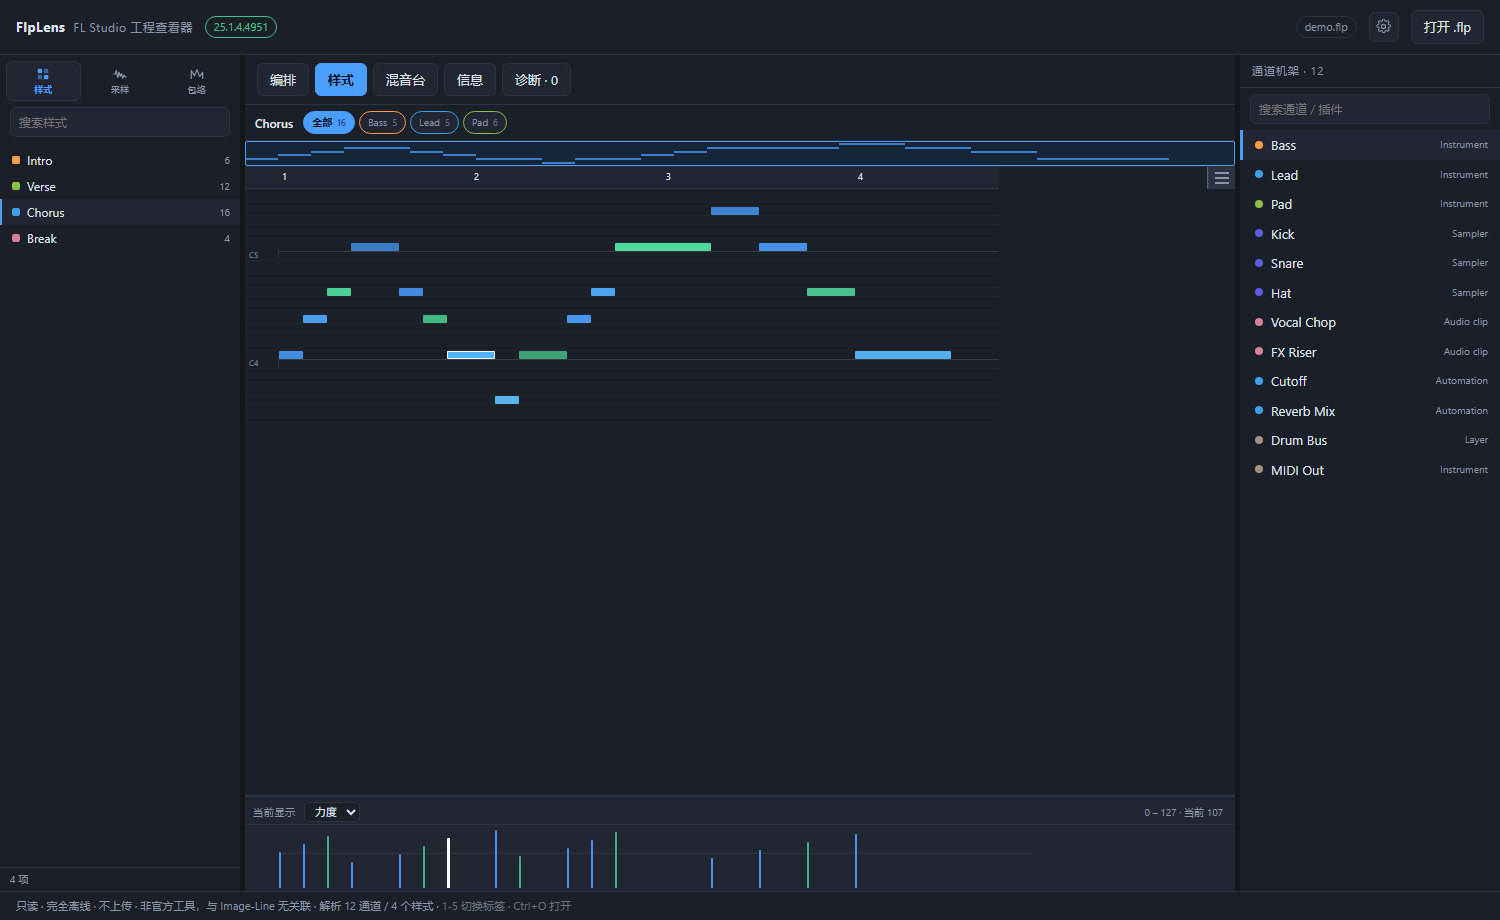
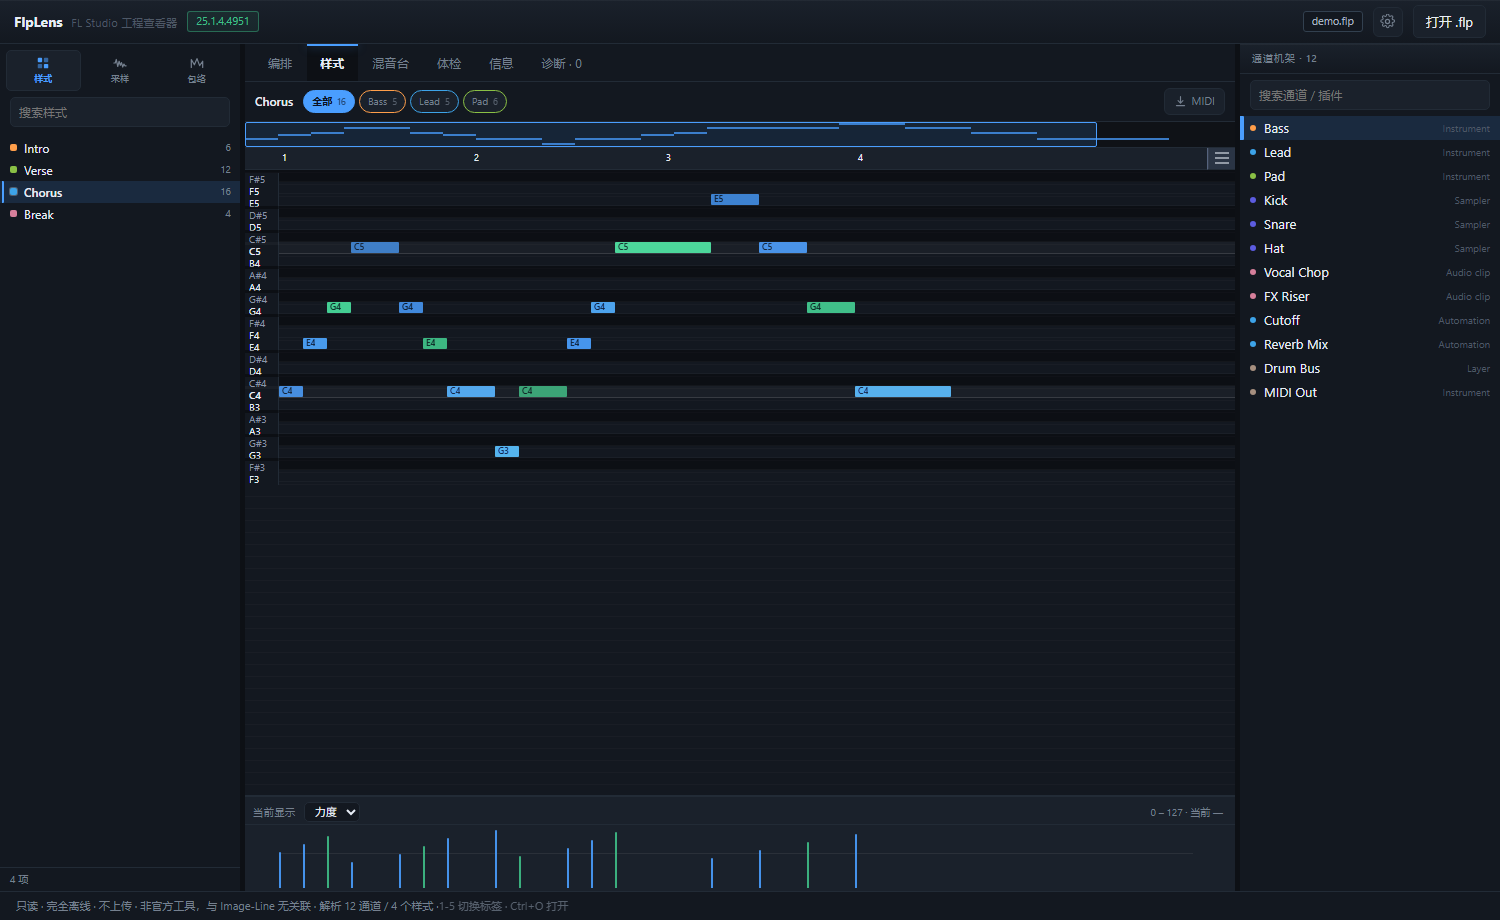
文档: 更新截图，补充体检页预览图
原截图拍于 11-14，此后界面做了设计令牌重构、页签改版、列表密度调整、动效系统，图片已与实际不符。重新用合成工程 demo.flp 生成五张，新增体检页一张。

diff --git a/README.md b/README.md
@@ -14,6 +14,8 @@
 
 ![混音台](docs/screenshot-mixer.png)
 
+![体检](docs/screenshot-insight.png)
+
 ---
 
 ## 支持范围
